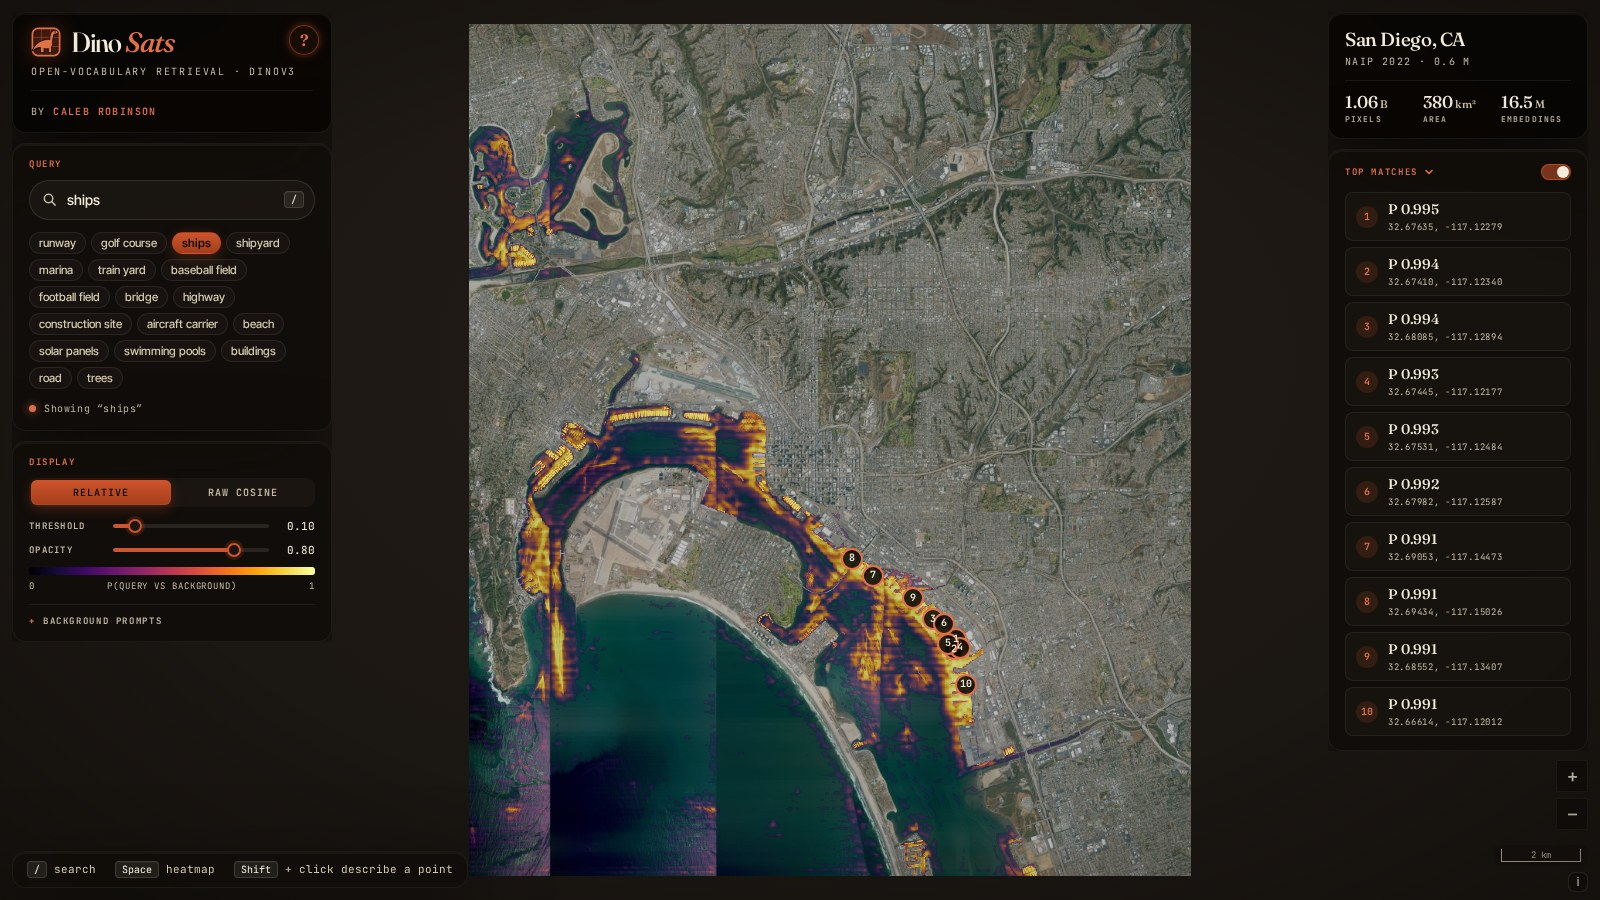
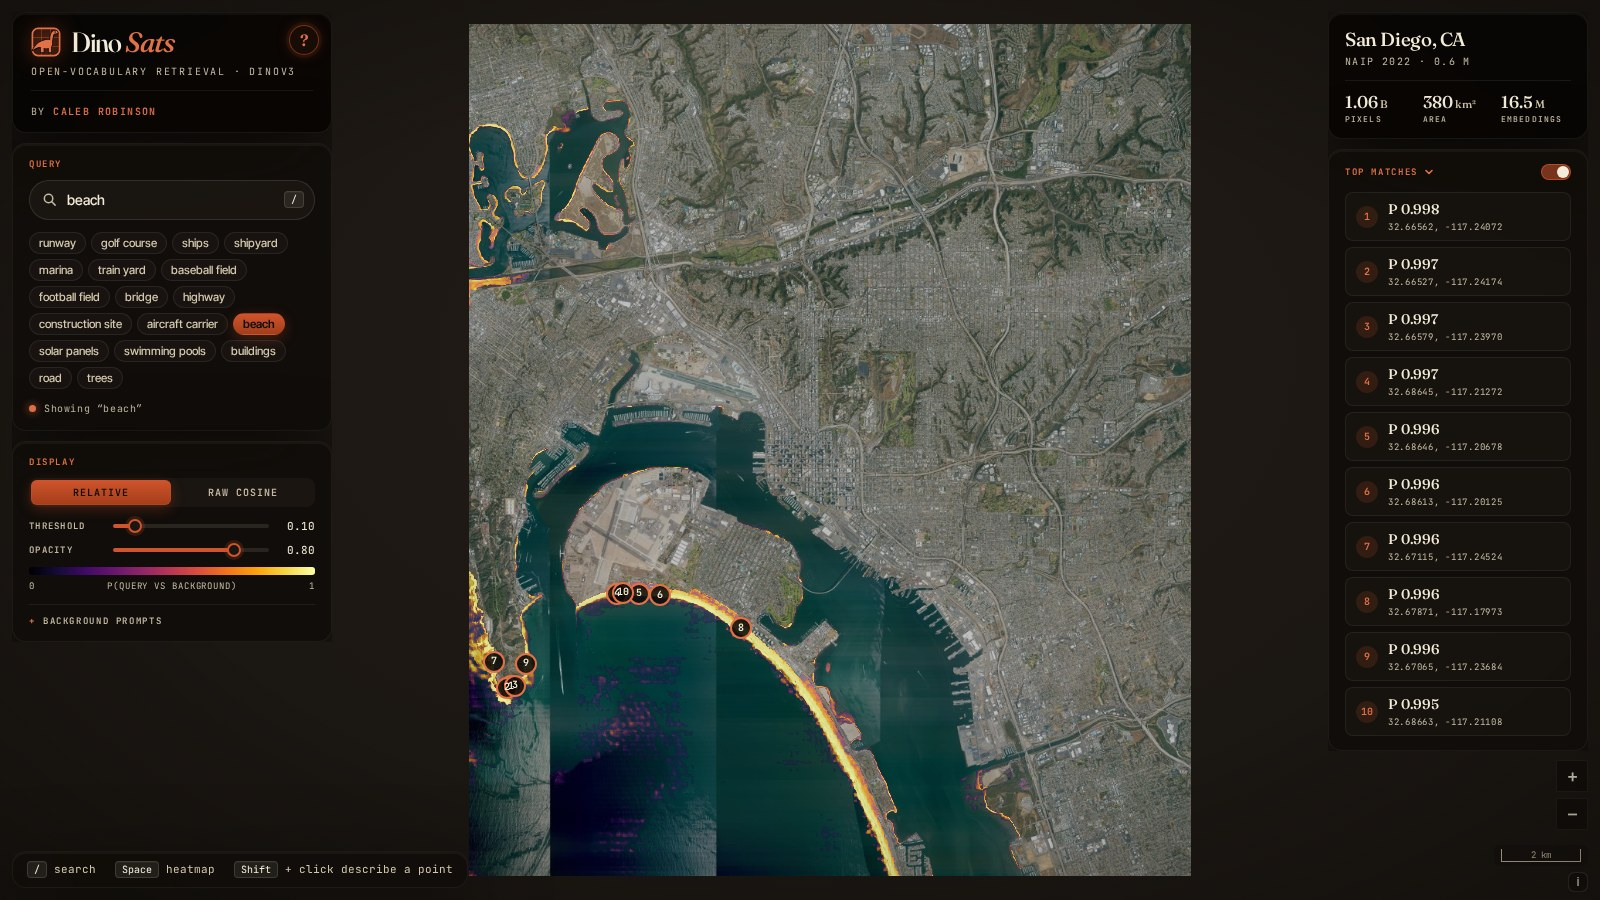
regenerate teaser

diff --git a/README.md b/README.md
@@ -12,10 +12,10 @@ This repo provides:
 ℹ The hosted demo at **[calebrob.com/dinosats](https://calebrob.com/dinosats/)** covers 380 km² of San Diego (a 3 × 3 mosaic of 2022 NAIP quarter quads at 0.6 m: 1.06 B pixels, 16.5 M embeddings at 4.8 m). The embeddings, imagery and text encoder are hosted on [Source Cooperative](https://source.coop/calebrob6/geospatialml); this repo lets you rebuild them for any NAIP area.
 
 <p align="center">
-  <a href="https://calebrob.com/dinosats/"><img src="web/teaser.jpg" alt="DinoSats teaser: a heatmap for the prompt ships over San Diego Bay, with the top ten matches along the naval piers" width="100%"></a>
+  <a href="https://calebrob.com/dinosats/"><img src="web/teaser.jpg" alt="DinoSats teaser: a heatmap for the prompt beach over San Diego, tracing the ocean beaches of Coronado and the Silver Strand" width="100%"></a>
 </p>
 
-**Figure 1.** DinoSats over San Diego (NAIP 2022) for the prompt *ships*. The heatmap is the per-patch probability of the prompt against a set of background prompts (*buildings*, *road*, *water*, …). The harbour, shipyards and naval piers light up, and the top ten matches line the piers of Naval Base San Diego.
+**Figure 1.** DinoSats over San Diego (NAIP 2022) for the prompt *beach*. The heatmap is the per-patch probability of the prompt against a set of background prompts (*buildings*, *road*, *water*, …). The ocean beaches of Coronado and the Silver Strand light up as a thin line, along with the shores of Mission Bay, and the top ten matches are on Coronado's beaches and the tip of Point Loma.
 
 dino.txt was trained to align DINOv3 features with captions of web photos, not aerial imagery, so this is zero-shot. It works well for things that are distinctive at a few metres per patch (runways, golf courses, marinas, ships, sports fields) and less well for small or ambiguous objects, and scores are only meaningful relative to the background prompts. Treat it as an exploration tool: a fast way to see what open-vocabulary features can find in a scene before training anything.
 
